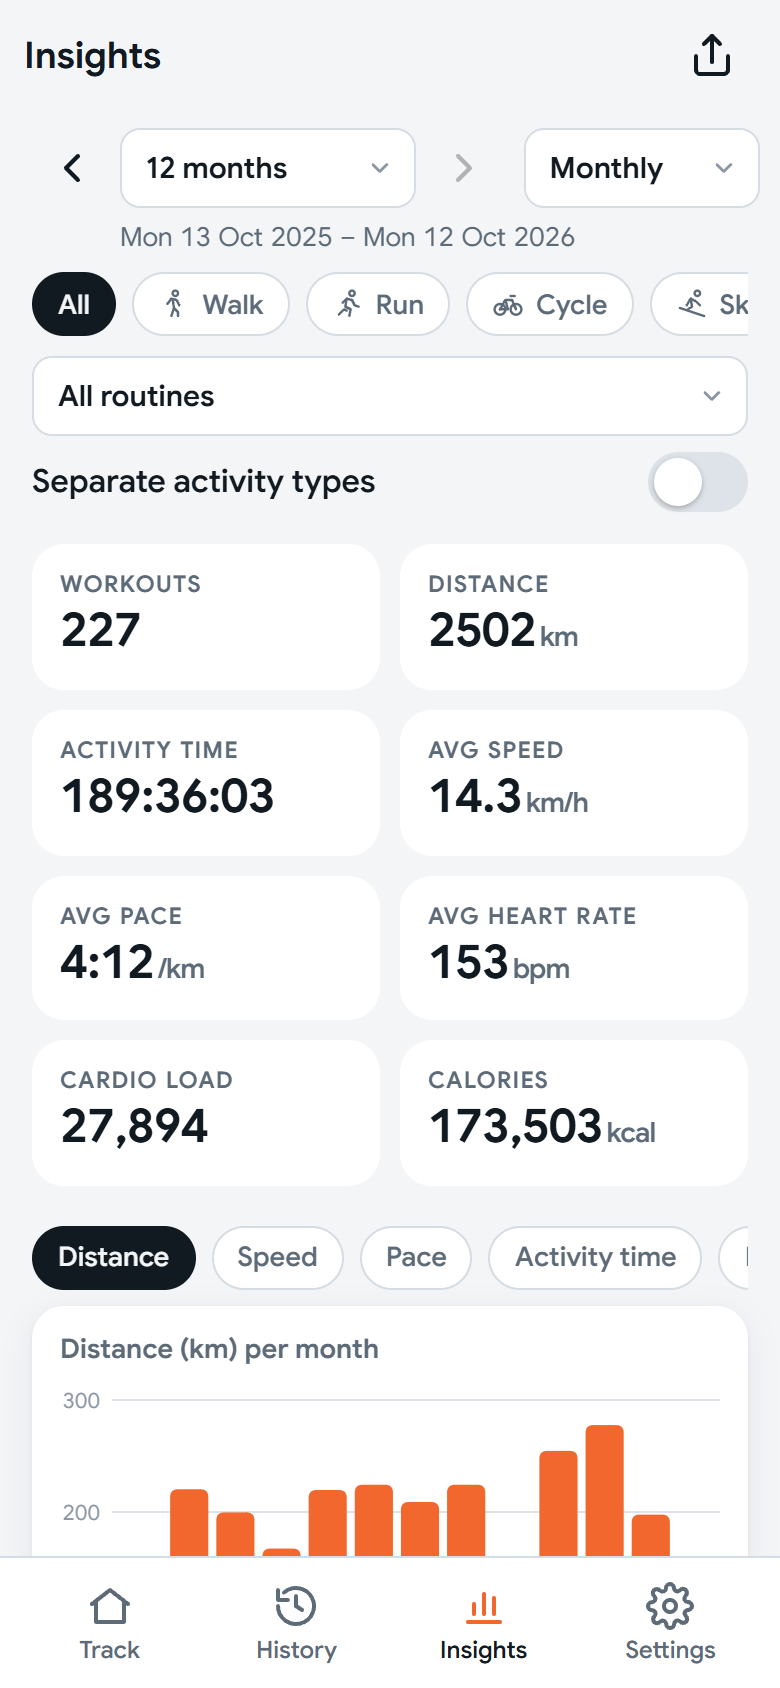
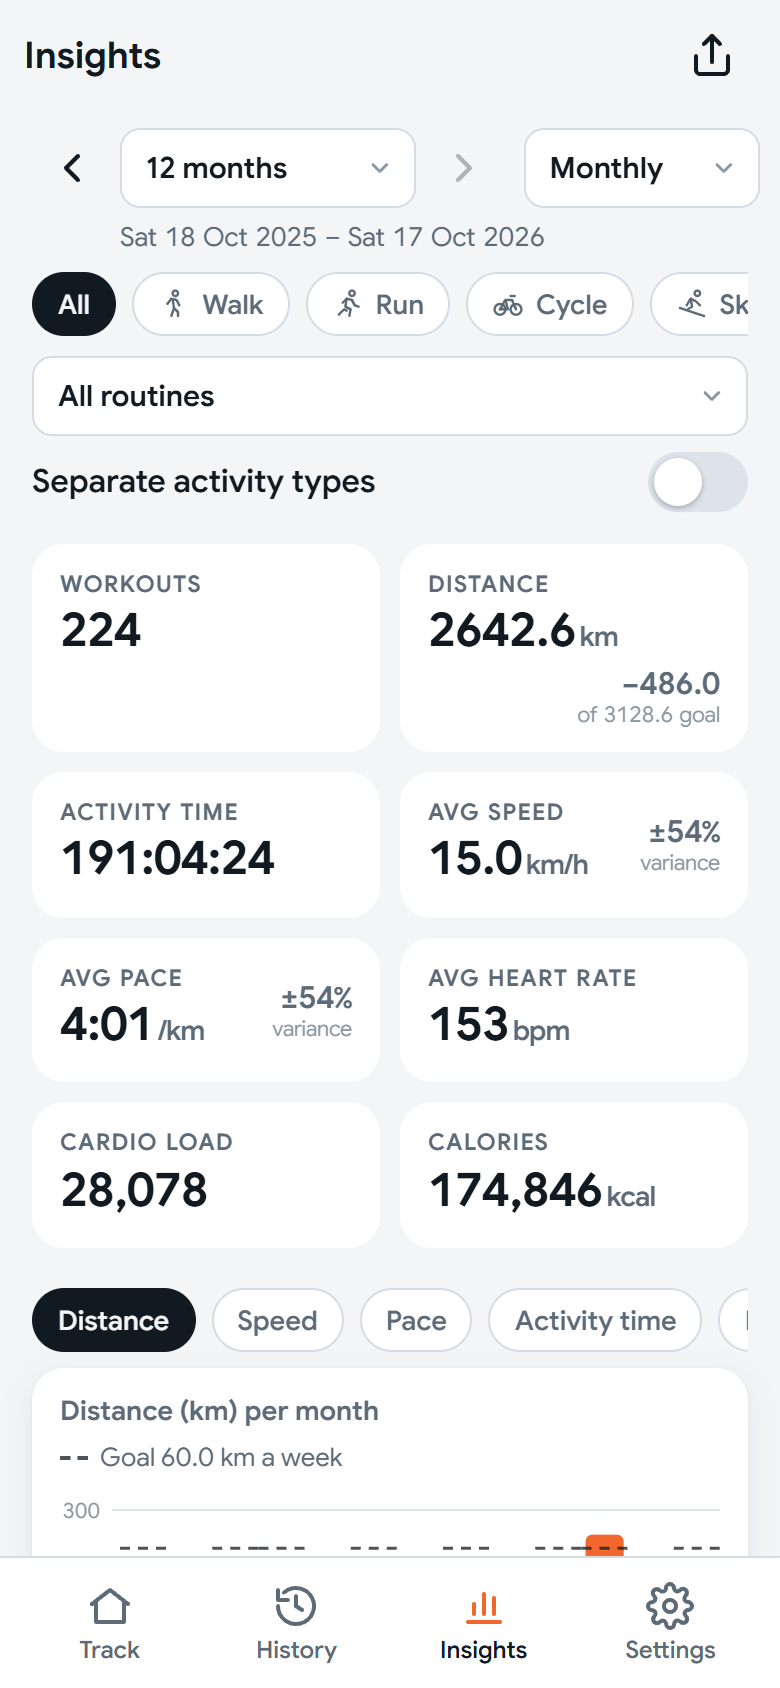
Insights: equal tile columns, goal figure wraps under long values; re-capture the Insights screenshot

diff --git a/src/styles/app.css b/src/styles/app.css
@@ -2184,11 +2184,20 @@ main#view {
 
 .insights-totals {
   margin-top: 12px;
+  /* Equal columns however long a value is; a side figure wraps under it instead. */
+  grid-template-columns: repeat(2, minmax(0, 1fr));
+}
+
+@media (min-width: 560px) {
+  .insights-totals {
+    grid-template-columns: repeat(3, minmax(0, 1fr));
+  }
 }
 
 /* A figure at the right of a tile: distance against the goal, or the speed spread. */
 .stat.has-side {
   display: flex;
+  flex-wrap: wrap;
   align-items: center;
   justify-content: space-between;
   column-gap: 8px;

diff --git a/README.md b/README.md
@@ -49,7 +49,7 @@ sensors.
   <img src="docs/screenshots/voice-live.png" width="250" alt="Live workout screen showing the last spoken announcement as a caption under the controls">
 </p>
 <p align="center">
-  <img src="docs/screenshots/insights.png" width="250" alt="Insights: date range, grouping, activity and routine filters, with totals for workouts, distance, activity time, speed, pace, heart rate, cardio load and calories">
+  <img src="docs/screenshots/insights.png" width="250" alt="Insights: date range, grouping, activity and routine filters, with totals for workouts, distance against its goal, activity time, speed and pace with their ± variation, heart rate, cardio load and calories">
   &nbsp;
   <img src="docs/screenshots/insights-split.png" width="250" alt="Insights: monthly distance stacked by activity, with a tooltip for July and a table broken down by activity">
   &nbsp;
